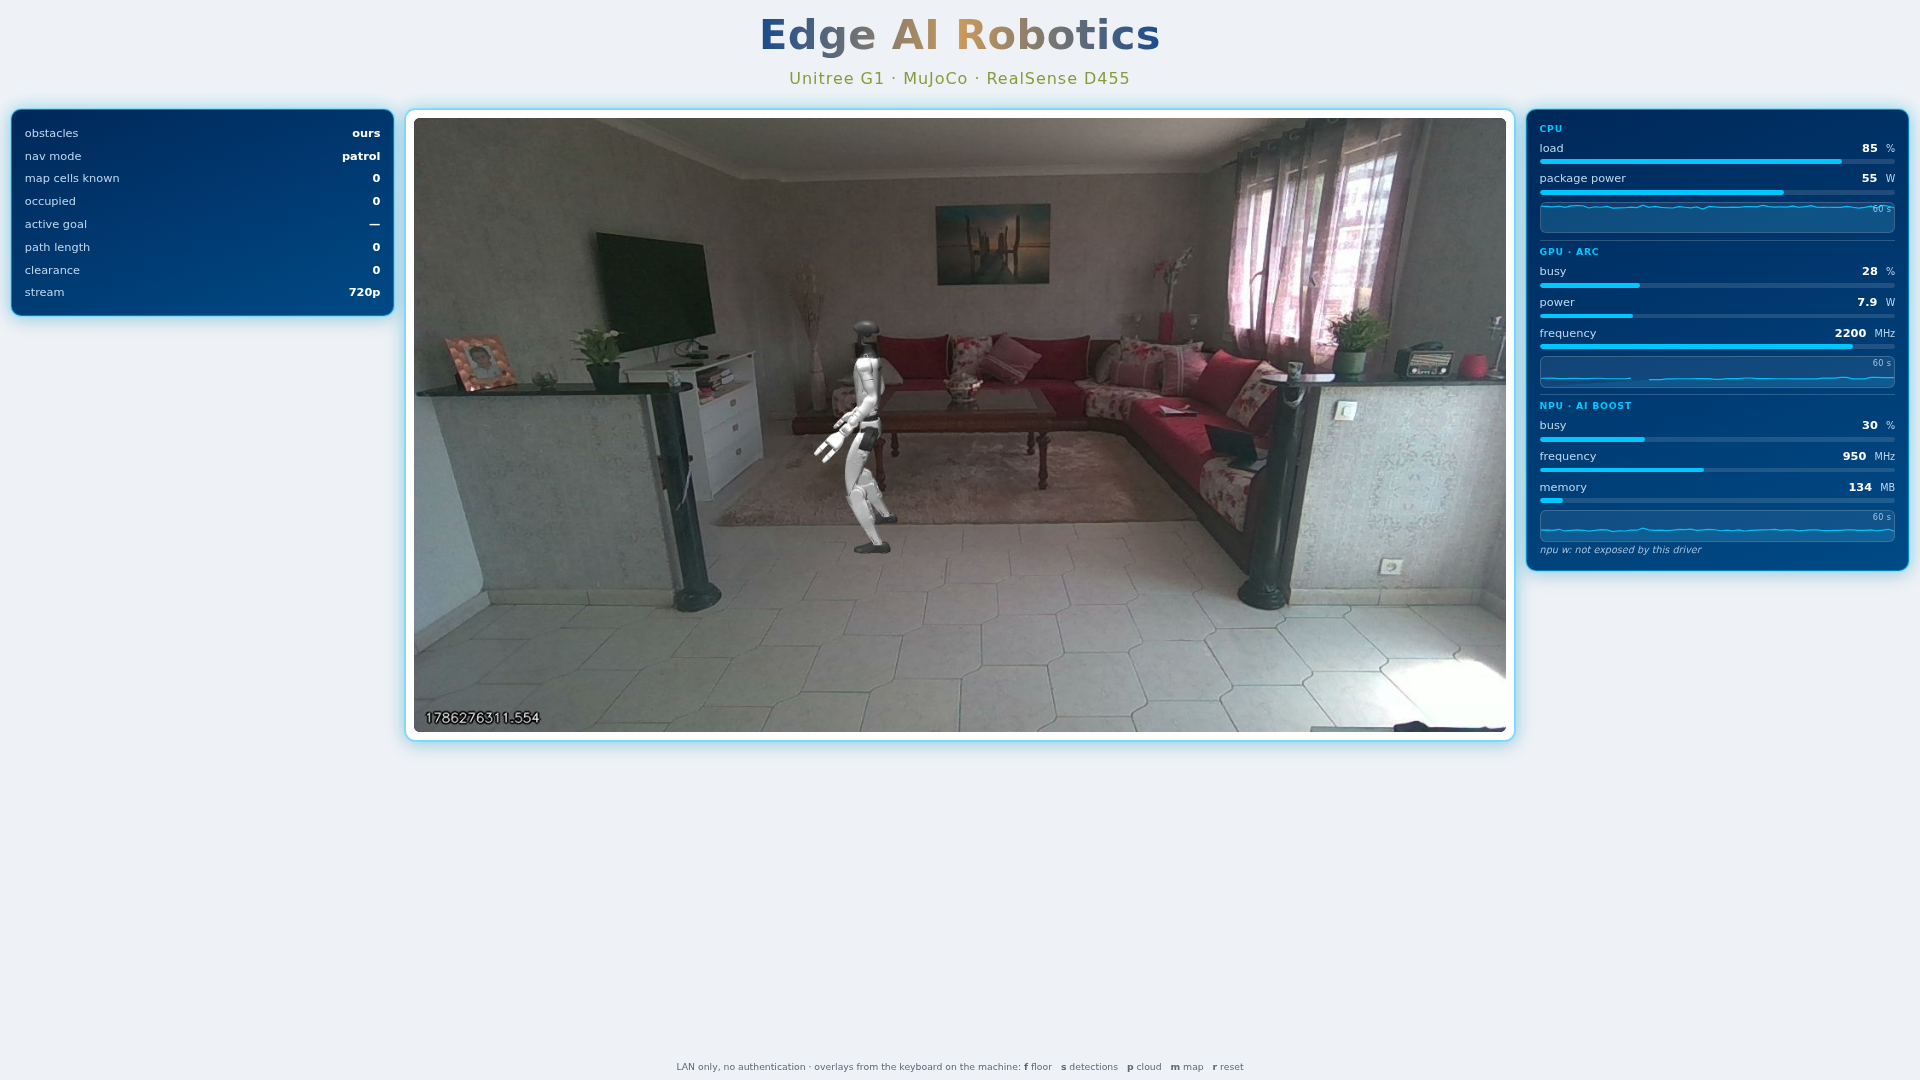
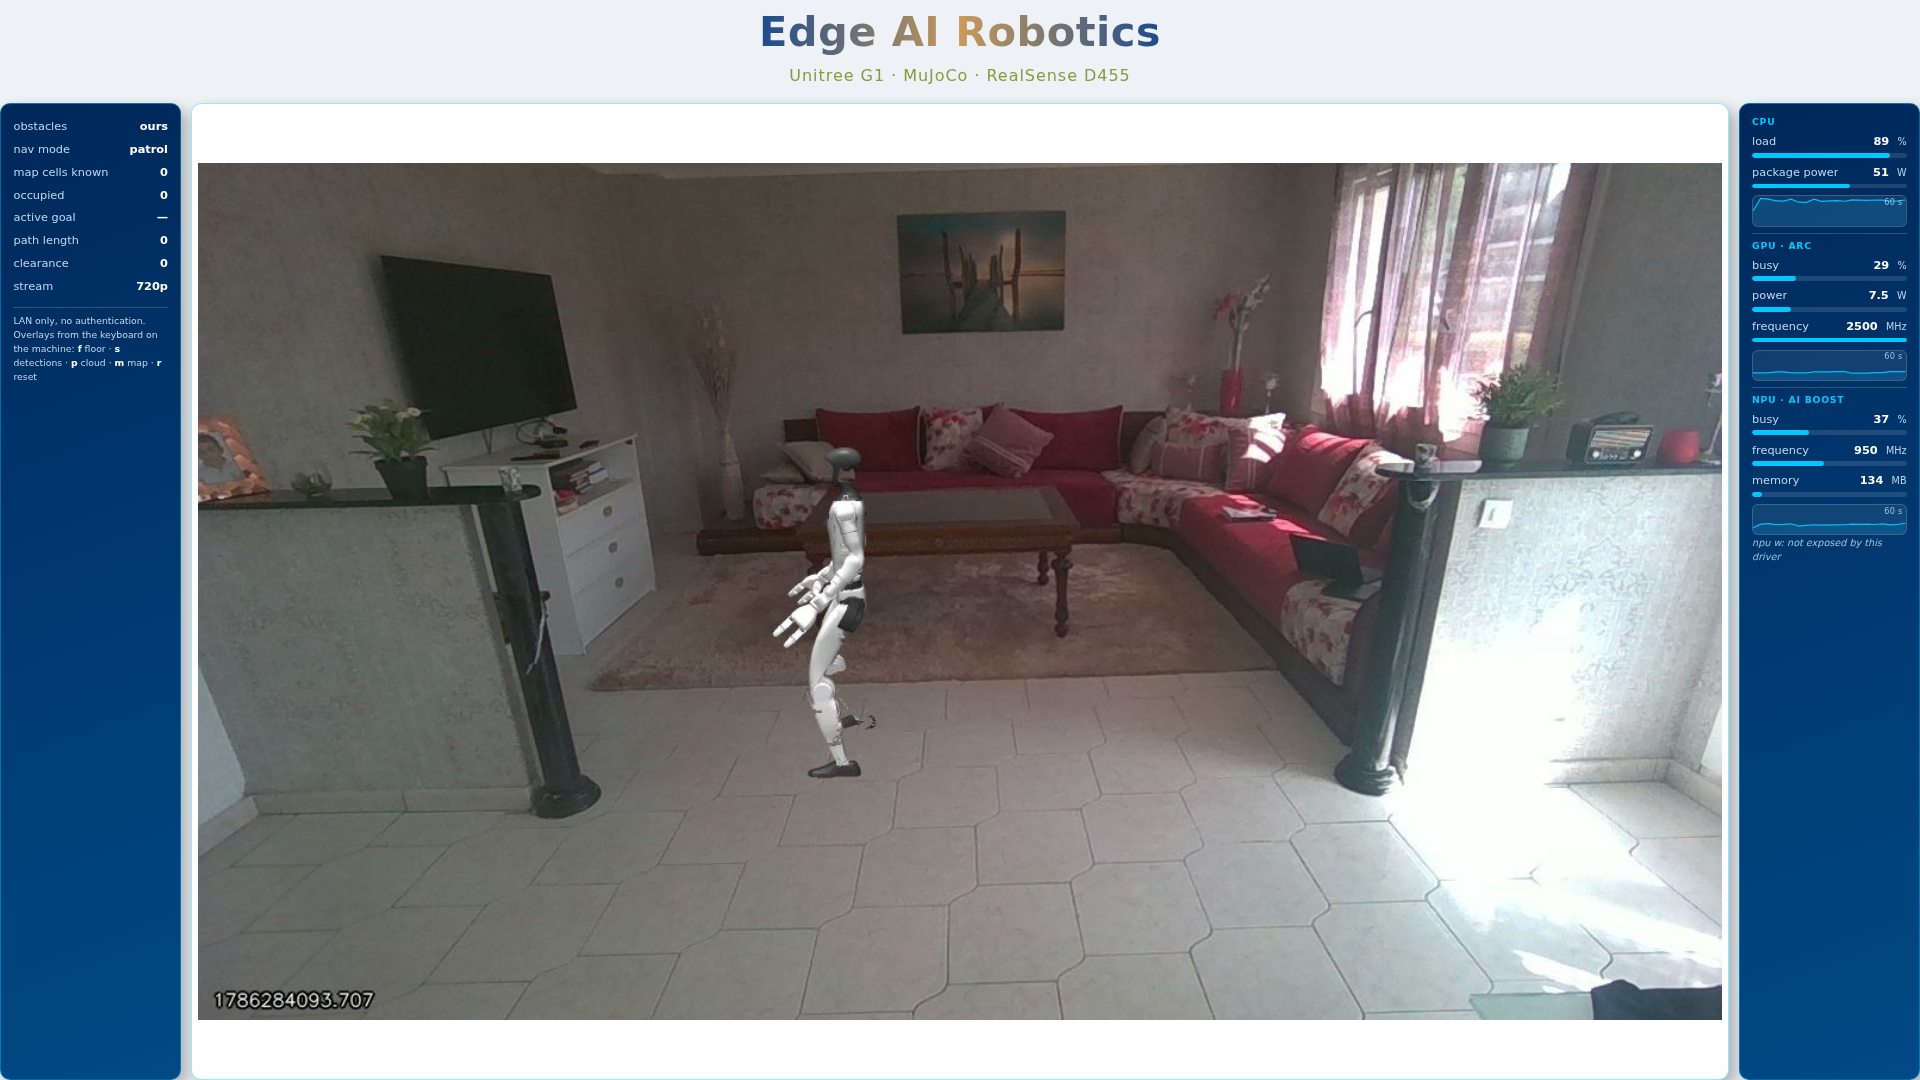
Web console: fill the viewport, and invert which constraint binds
1. NO OUTER FRAME. The row is a flex row sized by whatever the header
leaves, padding 0, a 10 px gap between cards only. All three cards run to
the left, right and bottom edges. Measured gap below the row: 0 px at
every zoom. The page footer moved into the Status card -- a page-level
footer would eat the height the video is meant to reach into, and the
LAN/keys note belongs beside the other "what is this doing" lines.

2. SHADOW. The luminous multi-layer glow is gone; one soft shadow cast
down and right, 6px 6px 14px rgba(0,0,0,0.28), over a thin
1px rgba(0,199,253,0.4) hairline. The outermost shadows are clipped by the
viewport, which is what having no outer frame costs.

3. THE VIDEO, AND THE WIDTH IT CANNOT HAVE

Built exactly as specified -- height:100%, aspect-ratio 16/9, width
derived -- it measures perfectly and starves the panels:

    video 1712x963, each panel 87 px

87 px does not hold "map cells known" or "package power"; the labels were
clipped. This is not a CSS problem, it is arithmetic: on 1920x1080 a 16:9
picture at the full 963 px under the header wants 963*16/9 = 1712 of
1920 px, leaving 208 px for two panels and two gaps however it is
written. A full-height 16:9 video on a 16:9 screen has no room beside it.

So the binding constraint is inverted. Panels get a relative width band,
flex:0 0 clamp(8.5em,11%,16em), and the video card takes the rest at full
height, with the picture inside as the largest strict 16:9 that fits:
[…]

diff --git a/scripts/zoom_check.js b/scripts/zoom_check.js
@@ -34,6 +34,22 @@ const puppeteer = require('/home/pptruser/node_modules/puppeteer');
         // Top alignment: the three cards must share a top edge.
         tops: [...document.querySelectorAll('main > .card')]
                 .map(e => Math.round(e.getBoundingClientRect().top)),
+        bottoms: [...document.querySelectorAll('main > .card')]
+                .map(e => Math.round(e.getBoundingClientRect().bottom)),
+        // How much of the viewport the row actually reaches, and how wide the
+        // panels end up once the 16:9 video has taken its share.
+        rowBottomGap: Math.round(window.innerHeight -
+          Math.max(...[...document.querySelectorAll('main > .card')]
+            .map(e => e.getBoundingClientRect().bottom))),
+        // object-fit:contain means the ELEMENT box is the card and the
+        // picture is the largest 16:9 inside it. Report the picture, which is
+        // what a viewer sees, not the box.
+        picture: (() => { const r =
+          document.querySelector('.view img').getBoundingClientRect();
+          const w = Math.min(r.width, r.height * 16 / 9);
+          const h = Math.min(r.height, r.width * 9 / 16);
+          return {w: Math.round(w), h: Math.round(h),
+                  aspect: h ? +(w / h).toFixed(3) : null}; })(),
         titlePx: parseFloat(getComputedStyle(
                    document.querySelector('.title')).fontSize),
         subPx: parseFloat(getComputedStyle(
@@ -57,7 +73,12 @@ const puppeteer = require('/home/pptruser/node_modules/puppeteer');
                 ` title=${m.titlePx.toFixed(1)}px subtitle=${m.subPx.toFixed(1)}px` +
                 ` body=${m.bodyPx.toFixed(1)}px`);
     console.log(`  card tops=${JSON.stringify(m.tops)} aligned=` +
-                `${new Set(m.tops).size === 1}`);
+                `${new Set(m.tops).size === 1}` +
+                `  bottoms=${JSON.stringify(m.bottoms)} aligned=` +
+                `${new Set(m.bottoms).size === 1}`);
+    console.log(`  gap below row=${m.rowBottomGap}px  picture=` +
+                `${m.picture.w}x${m.picture.h} aspect=${m.picture.aspect}` +
+                ` (16/9 = 1.778)`);
     console.log(`  buttons=${m.overlayButtons} h2Titles=${m.headings}`);
     await page.screenshot({path: `/out/zoom-${z}.png`});
     await page.close();

diff --git a/services/web/page.py b/services/web/page.py
@@ -65,12 +65,6 @@ PAGE = """<!doctype html><html lang="en"><head><meta charset="utf-8">
   --energy:#00C7FD;          /* Intel Energy Blue: the glow, and the bars */
   --olive:#8A9A3B;           /* the subtitle */
   --barbg:#E9EEF3;
-  /* The luminous edge: a solid hairline, a tight ring just outside it, a soft
-     bloom, then an ordinary drop shadow for depth. The first three are the
-     glow; the last is what stops the card floating with no weight. */
-  --glow:0 0 0 1px rgba(0,199,253,0.25),
-         0 0 18px rgba(0,199,253,0.35),
-         0 4px 20px rgba(0,40,90,0.15);
 }
 *{box-sizing:border-box;margin:0;padding:0}
 html,body{height:100%;overflow:hidden}
@@ -81,7 +75,7 @@ display:flex;flex-direction:column}
 
 /* ---- header: two centred lines, stacked, above the columns ------------- */
 header{flex:0 0 auto;text-align:center;
-padding:1.1em 1em clamp(.6rem,2vmin,1.2rem)}
+padding:.8em 1em clamp(.5rem,1.6vmin,1rem)}
 .title{
   font-size:clamp(1.15rem,3.9vmin,2.6rem);
   margin-bottom:clamp(.25rem,.9vmin,.5rem);
@@ -108,13 +102,27 @@ letter-spacing:.06em;font-weight:500}
    indefinite height -- a circular constraint that Chrome settles at zero, and
    the video measured 2202x0. With a definite row the percentage means what it
    says and acts as the backstop it was meant to be. */
-main{flex:1 1 auto;min-height:0;display:grid;
-grid-template-columns:minmax(0,1fr) minmax(0,2.9fr) minmax(0,1fr);
-grid-template-rows:minmax(0,1fr);
-align-items:start;gap:1em;padding:0 1em 1em}
-.card{background:var(--card);border:1px solid rgba(0,199,253,0.55);
-border-radius:10px;box-shadow:var(--glow);padding:1em 1.1em;
-min-width:0;min-height:0;max-height:100%;overflow:hidden}
+/* A flex ROW whose height is whatever the header leaves, with no outer
+   padding: the cards run to the screen edges and only a small gap separates
+   them. The three children are all height:100%, so "equal top and bottom" is
+   structural rather than something to keep in sync.
+
+   The video is the only one whose WIDTH is derived: height:100% plus
+   aspect-ratio 16/9 on the image gives width = height x 16/9, and the card
+   shrink-wraps it (flex:0 0 auto). The two panels then share whatever width is
+   left (flex:1 1 0). Nothing is stretched and nothing is cropped. */
+main{flex:1 1 auto;min-height:0;display:flex;align-items:stretch;
+gap:10px;padding:0}
+.card{background:var(--card);border:1px solid rgba(0,199,253,0.4);
+border-radius:10px;box-shadow:6px 6px 14px rgba(0,0,0,0.28);
+padding:1em 1.1em;min-width:0;min-height:0;overflow:hidden}
+/* Panels: full row height, and a width band rather than "whatever is left".
+   Left to share the leftover they collapsed to 87 px on a 1920x1080 screen and
+   clipped their own labels -- the arithmetic is unforgiving, because a 16:9
+   video at full height under a header already wants 1737 of 1920 px. The band
+   is relative (em floor, % target, em ceiling) so it holds at every zoom and
+   does not run away on an ultra-wide display. */
+.card.metrics{flex:0 0 clamp(8.5em,11%,16em);height:100%;min-width:0}
 
 /* The two gauge panels are deep Intel blue; the video card stays white so the
    picture is the brightest thing on the page. Everything inside the panels
@@ -132,12 +140,31 @@ min-width:0;min-height:0;max-height:100%;overflow:hidden}
   --na:#9FC0DE;                       /* the "not exposed" notes */
   color:var(--fg);
 }
-/* The video card hugs the video: height from the 16:9 image rather than
-   stretched to the row, so there is no white letterbox band above and below a
-   widescreen frame inside a white card. */
-.card.view{align-self:start;padding:.7em}
-.view img{width:100%;height:auto;display:block;border-radius:6px;
-background:#0b0e14}
+/* Height-driven: the card is as tall as the row and exactly as wide as a 16:9
+   frame of that height needs. flex:0 0 auto keeps flex from stretching or
+   shrinking it, min-width:0 lets it give way rather than push a scrollbar if
+   the viewport is ever too narrow for it plus the panels. */
+/* The video card takes the width the panels leave and the full row height, so
+   all three cards share a top and a bottom edge. The IMAGE inside is the
+   largest strict 16:9 box that fits: max-width and max-height both 100% with
+   aspect-ratio 16/9, so it is never stretched and never cropped, and whichever
+   dimension has slack becomes an even margin either side of it.
+
+   Height-first would have been truer to "the video drives everything", but it
+   only works where the screen is taller than 16:9 relative to the space the
+   panels need; on a 16:9 display it starves them. This way the video is as
+   large as it can be without doing that, and on a taller or wider-than-16:9
+   window it does reach the full height on its own. */
+.card.view{flex:1 1 0;height:100%;padding:6px;min-width:0;
+display:flex;align-items:center;justify-content:center}
+/* 100%/100% + contain, NOT auto with max-*: `width:auto` refuses to scale the
+   1280x720 composite UP, so on a large screen the video sat at native size in
+   the middle of its card. Filling the box and containing the pixels gives the
+   largest 16:9 picture that fits, centred, never stretched and never cropped;
+   the slack becomes an even margin, which against the white card reads as a
+   mat rather than as a letterbox. */
+.view img{width:100%;height:100%;object-fit:contain;display:block;
+border-radius:6px}
 
 /* ---- rows: label, value, bar. The reference's metrics-row shape. ------- */
 .metrics-row{padding:.28em 0}
@@ -161,8 +188,12 @@ border:1px solid var(--line);border-radius:6px;overflow:hidden}
 .spark{width:100%;height:2.6em;display:block}
 .sparkwrap .cap{position:absolute;right:.35em;top:.1em;color:var(--na);
 font-size:.72em;letter-spacing:.04em}
-.foot{flex:0 0 auto;color:var(--dim);font-size:.82em;padding:0 1em .7em;
-text-align:center}
+/* The LAN/keys note moved into the Status card. A page-level footer would eat
+   the very height the video is supposed to reach into, and the note belongs
+   next to the other "what is this demo doing" lines anyway. */
+.hint{margin-top:1em;padding-top:.7em;border-top:1px solid var(--line);
+color:var(--dim);font-size:.82em;line-height:1.5}
+.hint b{color:var(--fg)}
 </style></head><body>
 
 <header>
@@ -175,10 +206,6 @@ text-align:center}
   <div class="card view"><img src="/stream" alt="live composite"></div>
   <div class="card metrics" id="platform"></div>
 </main>
-
-<p class="foot">LAN only, no authentication &middot; overlays from the keyboard
-on the machine: <b>f</b> floor &nbsp; <b>s</b> detections &nbsp; <b>p</b> cloud
-&nbsp; <b>m</b> map &nbsp; <b>r</b> reset</p>
 
 <script>
 // ---- the reference's setMetricRow, kept to the letter --------------------
@@ -257,6 +284,11 @@ const PLATFORM_HTML =
   + row('npu','mem','memory','MB',2048)
   + `<div id="npu-spark"></div><div id="npu-na"></div>`;
 
+const HINT = `<div class="hint">LAN only, no authentication.<br>
+Overlays from the keyboard on the machine:
+<b>f</b> floor &middot; <b>s</b> detections &middot; <b>p</b> cloud &middot;
+<b>m</b> map &middot; <b>r</b> reset</div>`;
+
 const STATUS_ROWS = [
   ['source','obstacles'], ['nav_mode','nav mode'],
   ['map_known','map cells known'], ['map_occupied','occupied'],
@@ -277,7 +309,7 @@ async function tickStatus(){
         else if (typeof v === 'number') v = (Number.isInteger(v) ? v : v.toFixed(2));
         return `<div class="metrics-row"><div class="rl">
           <span class="k">${l}</span><span class="v">${v}</span></div></div>`;
-      }).join('');
+      }).join('') + HINT;
   }catch(e){}
   setTimeout(tickStatus, 1000);
 }

diff --git a/docs/WEB-CONSOLE.md b/docs/WEB-CONSOLE.md
@@ -216,44 +216,63 @@ precisely so they never go through msgpack as floats. The stream went from
 - **Unitree G1 · MuJoCo · RealSense D455** — smaller, centred beneath it, light
   letter-spacing, solid olive `#8A9A3B`.
 
-**Three top-aligned cards** below it: Status left, video centre, Platform right.
-`align-items:start` — the grid spelling of `flex-start` — so each card is only
-as tall as its own content and the three share a top edge instead of the short
-ones stretching to match the tall one. No panel titles: the rows label
-themselves.
+**Three full-height cards** below it: Status left, video centre, Platform right.
+The row is a flex row whose height is whatever the header leaves, with **no
+outer padding** — the cards run to the left, right and bottom edges of the
+viewport and only a 10 px gap separates them. All three are `height:100%`, so a
+shared top and bottom edge is structural rather than something to keep in sync.
+No panel titles: the rows label themselves.
 
-Every card carries the same **luminous Energy Blue edge** — a solid hairline
-`rgba(0,199,253,0.55)`, a tight ring just outside it, a soft bloom, then an
-ordinary drop shadow so the card still has weight:
-
-```css
-border: 1px solid rgba(0,199,253,0.55);
-box-shadow: 0 0 0 1px rgba(0,199,253,0.25),
-            0 0 18px rgba(0,199,253,0.35),
-            0 4px 20px rgba(0,40,90,0.15);
-border-radius: 10px;
-```
+Card chrome is a single soft shadow cast down and right,
+`6px 6px 14px rgba(0,0,0,0.28)`, over a thin `1px rgba(0,199,253,0.4)` hairline
+and a 10 px radius. The shadows on the outermost edges are clipped by the
+viewport, which is the price of having no outer frame.
 
 The two **gauge panels are deep Intel blue**,
 `linear-gradient(160deg,#00285A,#004A86)`, with `#BCD6EE` labels, white values,
 and Energy Blue `#00C7FD` bars on a `rgba(255,255,255,0.12)` track. The **video
-card stays white** so the picture is the brightest thing on the page.
+card stays white**. Those colours are set by **redefining the custom
+properties** on `.card.metrics`, not by overriding each rule: the bar fill, the
+group label and the sparkline stroke all already read `var(--accent)`, so one
+declaration moves all three and there is no second copy of the widget CSS to
+drift.
 
-Those colours are set by **redefining the custom properties** on
-`.card.metrics`, not by overriding each rule. The bar fill, the group label and
-the sparkline stroke all already read `var(--accent)`, so one declaration moves
-all three to Energy Blue and there is no second copy of the widget CSS to drift
-out of step.
-
-**The page background stayed light** — the one judgement call. The title
+**The page background stayed light** — the one colour judgement. The title
 gradient ends on `#1A4B8C` at both sides; on a dark navy page those ends sink
 into the background and "Edge" and "Robotics" stop being readable while the
-copper middle stays bright. The cost is that the outer bloom of the glow is
-subtler on light than it would be on dark; the hairline and the tight ring still
-read clearly, which is what makes the edge look lit.
+copper middle stays bright.
 
-Borders and radii stay in px exactly as given; they do not drive layout, so they
-cannot cause an overflow.
+### The video, and the width it cannot have
+
+The intent was "the video drives everything": full remaining height, strict
+16:9, width derived as `height x 16/9`. Built exactly that way it measures
+perfectly — picture aspect 1.778, bottoms flush at the viewport edge — and it
+starves the panels:
+
+| | video | each panel |
+|---|---|---|
+| height-driven, as first built | 1712x963 | **87 px** |
+
+87 px cannot hold "map cells known" or "package power"; the labels were being
+clipped. The arithmetic is unforgiving and it is not a CSS problem: on a
+1920x1080 screen, a 16:9 picture at the full 963 px left under the header wants
+`963 x 16/9 = 1712 px` of the 1920 available, so the two panels and two gaps
+have 208 px between them however they are written.
+
+So the binding constraint was inverted. The panels get a width **band** —
+`flex: 0 0 clamp(8.5em, 11%, 16em)`, relative so it holds at any zoom and does
+not run away on an ultra-wide display — and the video card takes what is left,
+at full height. Inside it the picture is the largest strict 16:9 that fits,
+`width:100%; height:100%; object-fit:contain`, centred: never stretched, never
+cropped, and the vertical slack becomes an even mat against the white card.
+
+`width:auto` with `max-width/max-height` was tried first and is wrong: it
+refuses to scale the 1280x720 composite **up**, so on a large screen the video
+sat at native size in the middle of its card.
+
+The result keeps every stated property except that the picture no longer reaches
+the full row height on a 16:9 display — the *card* does. On a window taller than
+16:9 relative to the panel band, it reaches the full height on its own.
 
 ### Fitting at any zoom
 
@@ -286,17 +305,23 @@ wherever there is room and gives way where there is not.
 Verified in headless Chrome at the CSS viewport a 1920x1080 screen presents at
 each zoom:
 
-| zoom | CSS viewport | scrollbars | video | card tops aligned | title / subtitle / body |
+| zoom | CSS viewport | scrollbars | picture (aspect) | panel width | gap below row |
 |---|---|---|---|---|---|
-| 50 % | 3840x2160 | none | 2214x1245 | yes | 41.6 / 16.0 / 15.0 px |
-| 100 % | 1920x1080 | none | 1092x614 | yes | 41.6 / 16.0 / 11.3 px |
-| 150 % | 1280x720 | none | 722x406 | yes | 28.1 / 10.8 / 9.0 px |
+| 50 % | 3840x2160 | none | 3326x1871 (1.778) | 240 px | 0 px |
+| 100 % | 1920x1080 | none | 1523x857 (1.778) | 181 px | 0 px |
+| 150 % | 1280x720 | none | 964x542 (1.778) | 141 px | 0 px |
 
-Header, both cards and the video are each checked **fully inside the viewport
-rectangle**, `scrollWidth`/`scrollHeight` are compared with
-`clientWidth`/`clientHeight` in both axes, and the three card tops are compared
-for equality. At 100 % the title lands at 41.6 px = exactly 2.6rem and the subtitle at
-exactly 1rem; at 150 % the clamp gives way, by design.
+Card tops and bottoms are equal at all three, and the bottoms sit exactly on the
+viewport edge. Type: title 41.6 / 41.6 / 28.1 px, subtitle 16.0 / 16.0 / 10.8 px.
+
+Header, both panels and the video are each checked **fully inside the viewport
+rectangle**; `scrollWidth`/`scrollHeight` are compared with
+`clientWidth`/`clientHeight` in both axes; the three card tops **and bottoms**
+are compared for equality; and the picture's aspect is computed from the element
+box (`object-fit:contain` means the box is the card, so the check reports the
+picture a viewer actually sees, not the box). At 100 % the title lands at
+41.6 px = exactly 2.6rem and the subtitle at exactly 1rem; at 150 % the clamp
+gives way, by design.
 
 The check is `scripts/zoom_check.js`, against a running console:
 
